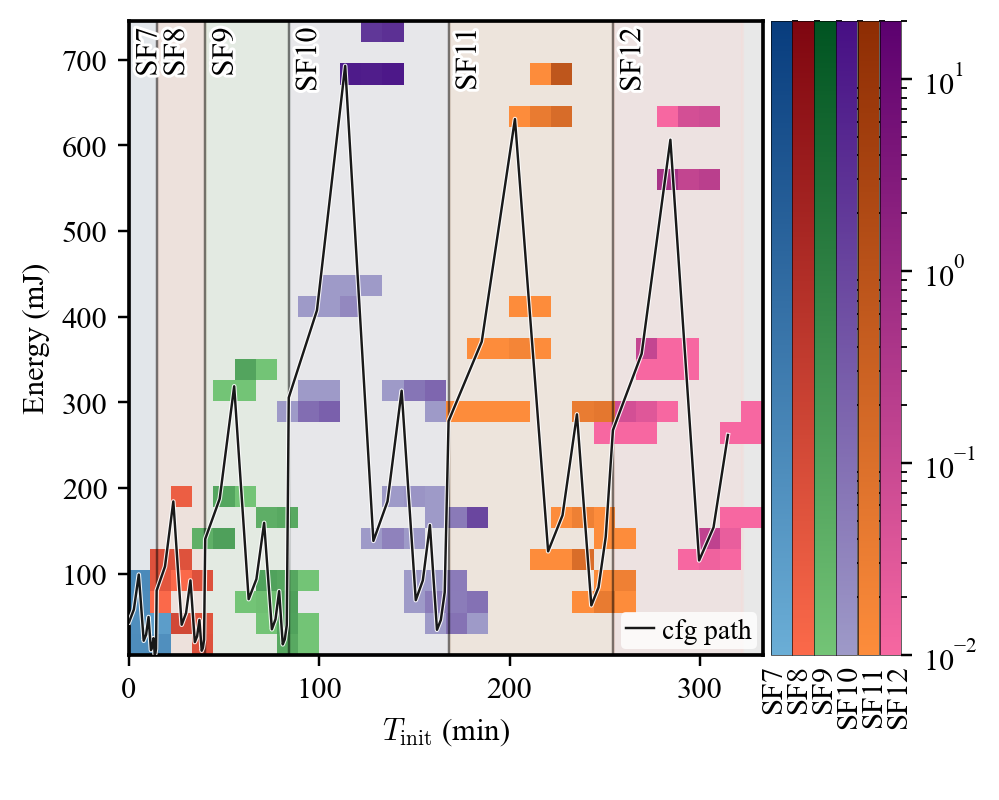
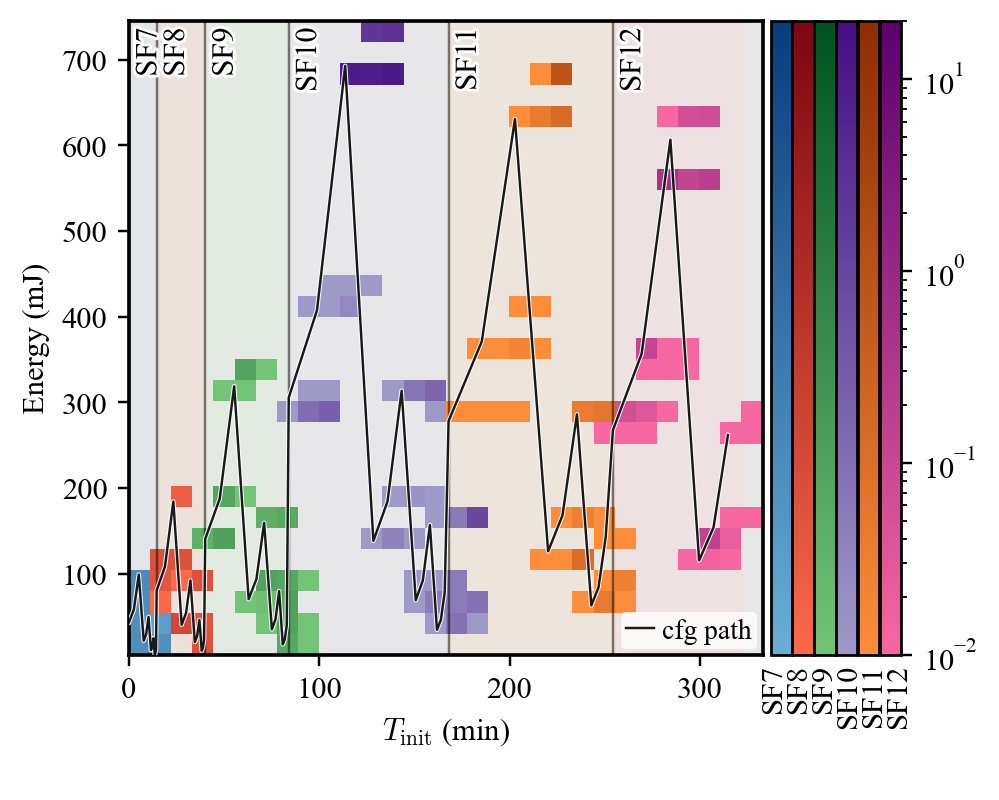
gogog

Changed region(s): [[0.7758, 0.0, 0.8999, 0.8438]]

diff --git a/tools/plots/plot_per_gradient_energy_vs_time.py b/tools/plots/plot_per_gradient_energy_vs_time.py
@@ -771,7 +771,7 @@ def _add_param_colorbars(fig, gs_cbars, values, log_vmin, vmax):
         sm = ScalarMappable(cmap=cmap, norm=norm)
         sm.set_array([])
         cbar = fig.colorbar(sm, cax=cax, orientation="vertical")
-        cbar.outline.set_linewidth(0.2)
+        cbar.outline.set_linewidth(0.9)
         if i < n - 1:
             cbar.ax.set_yticks([])
             cbar.ax.set_yticklabels([])
@@ -909,11 +909,16 @@ def plot_combined_heatmap(output_dir, config_dir, data_root, filters, time_bins,
                 ax.axvline(ts, color="black", linewidth=0.8, alpha=0.5, zorder=2)
 
             # SF label vertical inside upper-left of band (lowered)
-            x_label = ts_c + (t_max - t_min) * 0.01
+
+            
             
             if idx < 2:
-                y_label = e_max - e_range * 0.1
+                x_label = ts_c + (t_max - t_min) * 0.015
+                if idx < 1:
+                    x_label = ts_c + (t_max - t_min) * 0.005
+                y_label = e_max - e_range * 0.12
             else:
+                x_label = ts_c + (t_max - t_min) * 0.009
                 y_label = e_max - e_range * 0.05
             txt = ax.text(x_label, y_label, f"SF{sf}", ha="right", va="top",
                             fontsize=IEEE_FONTSIZE, color="black", zorder=6,
@@ -932,7 +937,7 @@ def plot_combined_heatmap(output_dir, config_dir, data_root, filters, time_bins,
                     # PER % — vertical for first two SFs, horizontal for the rest
                     y_per = e_max - e_range*0.01
                     if idx < 2:
-                        sub = ax.text(x_label, y_per - e_range*0.075, f"{per_val:.1f}%", ha="left", va="top",
+                        sub = ax.text(x_label, y_per - e_range*0.09, f"{per_val:.1f}%", ha="left", va="top",
                                      fontsize=IEEE_FONTSIZE, color="black", zorder=6,
                                      rotation=90, rotation_mode="anchor")
                     else:
@@ -957,8 +962,8 @@ def plot_combined_heatmap(output_dir, config_dir, data_root, filters, time_bins,
                 for i, (t, e, cfg) in enumerate(zip(path_times, path_energies, path_configs)):
                     cfg_str = f"SF{cfg[0]}_BW{cfg[1]}_TP{cfg[2]}"
                     print(f"    [{i}] t={t:.2f} min, e={e:.2f} mJ ({cfg_str})")
-                ax.plot(path_times, path_energies, color="white", linewidth=1.5, zorder=3, alpha=0.9)
-                ax.plot(path_times, path_energies, color="black", linewidth=0.8, zorder=3.5, alpha=0.9, label="cfg path")
+                ax.plot(path_times, path_energies, color="white", linewidth=2.0, zorder=3, alpha=0.9)
+                ax.plot(path_times, path_energies, color="black", linewidth=1.0, zorder=3.5, alpha=0.9, label="cfg path")
                 ax.legend(loc="lower right", fontsize=IEEE_FONTSIZE - 1, framealpha=0.8, edgecolor="none",
                           borderpad=0.2, handlelength=1.0, handletextpad=0.3, borderaxespad=0.2)
 
